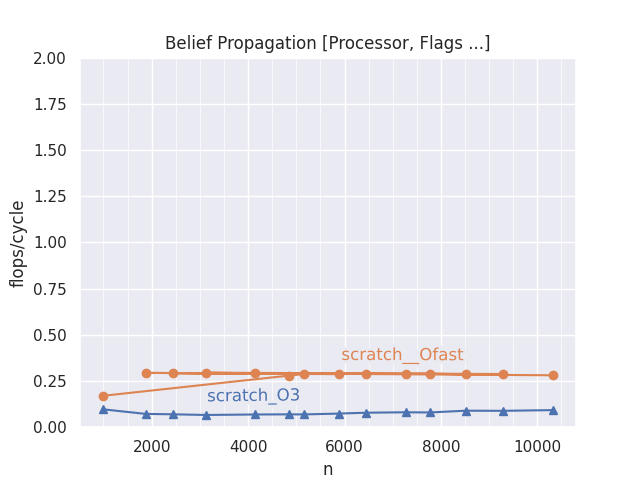
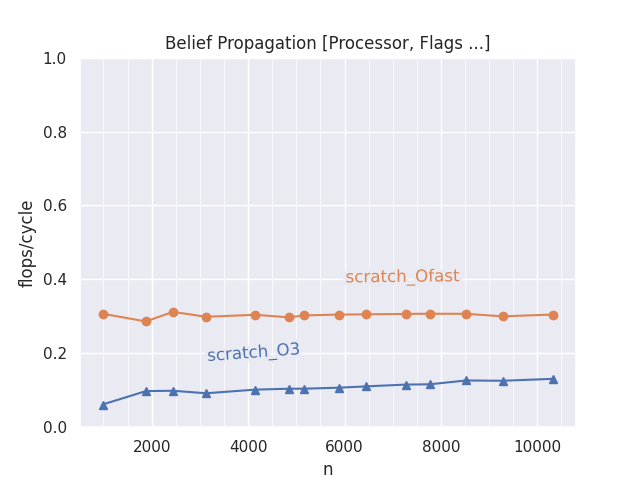
scratch: moved get_belief inside loop, plot_perf.py sorts array after n, updated plots

diff --git a/measurement_utils/plot_perf.py b/measurement_utils/plot_perf.py
@@ -30,6 +30,10 @@ for file in fileNames:
     df = pd.read_csv(PATH + file, usecols= [0,1,2])
     x = df.iloc[:,0].to_numpy()
     y = df.iloc[:,2].to_numpy()/df.iloc[:,1].to_numpy()
+    #sort array after n
+    perm = x.argsort()
+    y = y[perm]
+    x = x[perm]
     marker = next(markers)
     plt.plot(x, y, label = f"{Path(file).stem}", marker=marker)
 
@@ -37,7 +41,7 @@ plt.title("Belief Propagation [Processor, Flags ...]")
 plt.xlabel('n')
 plt.ylabel('Performance [F/C]')
 #plt.legend()
-plt.ylim(ymin=0,ymax=2)
+plt.ylim(ymin=0,ymax=1)
 plt.ylabel('flops/cycle')
 #plt.grid()
 ax = plt.gca()
